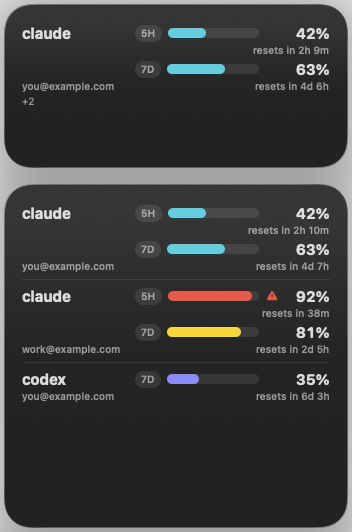
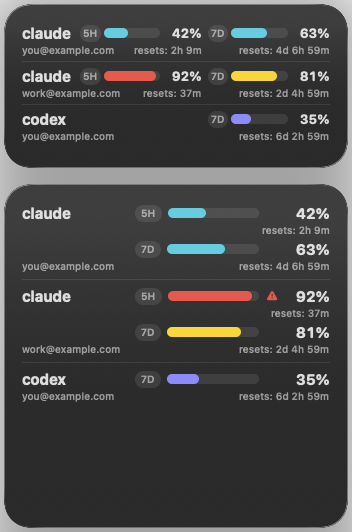
README demo: the compact medium widget from TASK-641 (#8)
Claude-Session: https://claude.ai/code/session_01KZSvLsfu6o1uDjnMY24LMr

diff --git a/README.md b/README.md
@@ -2,7 +2,7 @@
 
 A macOS desktop widget that shows, for every Claude Code and Codex account on one Mac, the 5-hour and 7-day usage limits, when they reset, and whether the account is usable right now. Pick an account before you start work without opening each one.
 
-![Medium and large Agent Usage Monitor widgets: each account's name with 5H and 7D usage bars, percent and reset time (`resets: 2h 9m`), side by side on one line in the medium widget and stacked in the large one, red from 90% with a warning triangle in the large one](docs/images/widget-demo.png)
+![Medium and large Agent Usage Monitor widgets: each account's name with 5H and 7D usage bars, percent and reset time (`resets: 2h 9m`), in the medium widget the 5H and 7D bars side by side, with the account and reset times on a second line; in the large one stacked, red from 90% with a warning triangle in the large one](docs/images/widget-demo.png)
 
 > **Status:** in development (milestone M2). Installable: the widget shows every Codex and Claude account, and macOS notifications tell you when a limit is nearly used up or an account is usable again.
 
